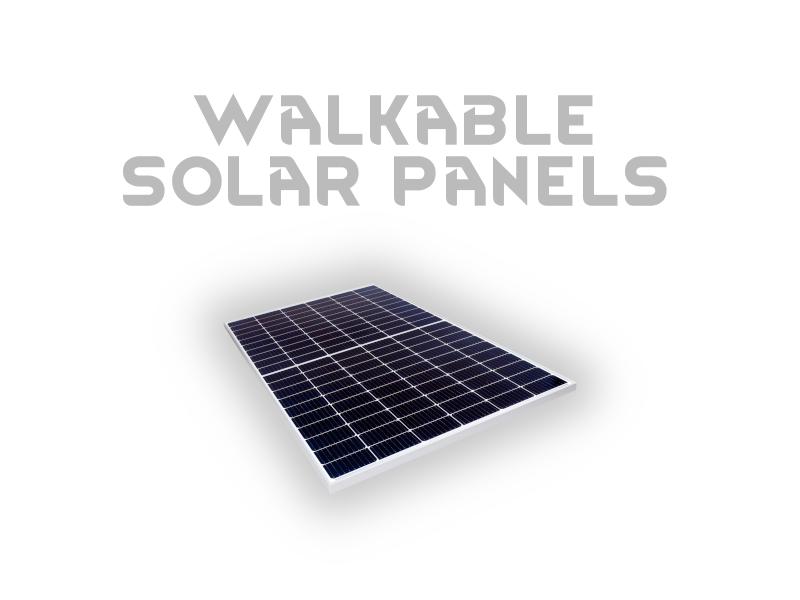
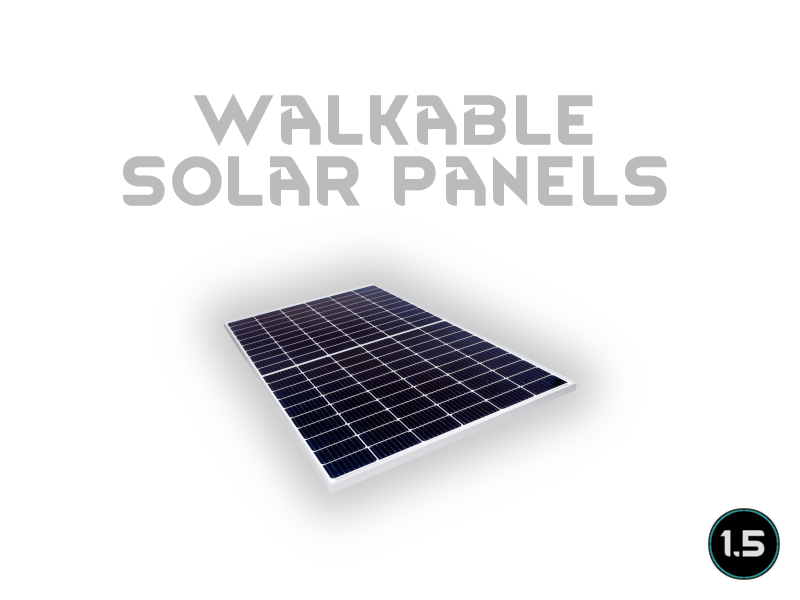
Mod updated for 1.5 and passed autotests

Changed region(s): [[0.875, 0.84, 1.0, 0.99]]

diff --git a/README.md b/README.md
@@ -1,6 +1,6 @@
 # WalkableSolarPanels
 
-![Image](https://i.imgur.com/buuPQel.png)
+![Image](https://i.imgur.com/iCj5o7O.png)
 
 
 Adds walkable modular solar-panels.
@@ -10,24 +10,26 @@ Requires a bit of gold and some metal to build.
 Based on the modular solar panels in https://steamcommunity.com/workshop/filedetails/?id=2510322065]Izzyssentials
 Idea by DisK
 
-![Image](https://i.imgur.com/O0IIlYj.png)
+![Image](https://i.imgur.com/Ds0rBAD.png)
 
 Since modding is just a hobby for me I expect no donations to keep modding. If you still want to show your support you can gift me anything from my https://store.steampowered.com/wishlist/id/Mlie]Wishlist or buy me a cup of tea.
 
-https://ko-fi.com/G2G55DDYD]![Image](https://i.imgur.com/Utx6OIH.png)
+https://ko-fi.com/G2G55DDYD]![Image](https://i.imgur.com/VWG0yff.png)
 
 
-![Image](https://i.imgur.com/PwoNOj4.png)
+![Image](https://i.imgur.com/5xwDG6H.png)
 
 
 
 -  See if the the error persists if you just have this mod and its requirements active.
 -  If not, try adding your other mods until it happens again.
--  Post your error-log using https://steamcommunity.com/workshop/filedetails/?id=818773962]HugsLib and command Ctrl+F12
+-  Post your error-log using https://steamcommunity.com/workshop/filedetails/?id=818773962]HugsLib or the standalone https://steamcommunity.com/sharedfiles/filedetails/?id=2873415404]Uploader and command Ctrl+F12
 -  For best support, please use the Discord-channel for error-reporting.
 -  Do not report errors by making a discussion-thread, I get no notification of that.
 -  If you have the solution for a problem, please post it to the GitHub repository.
+-  Use https://github.com/RimSort/RimSort/releases/latest]RimSort to sort your mods
 
 
 
+https://steamcommunity.com/sharedfiles/filedetails/changelog/2511096015]![Image](https://img.shields.io/github/v/release/emipa606/WalkableSolarPanels?label=latest%20version&style=plastic&labelColor=0070cd&color=white)
 
